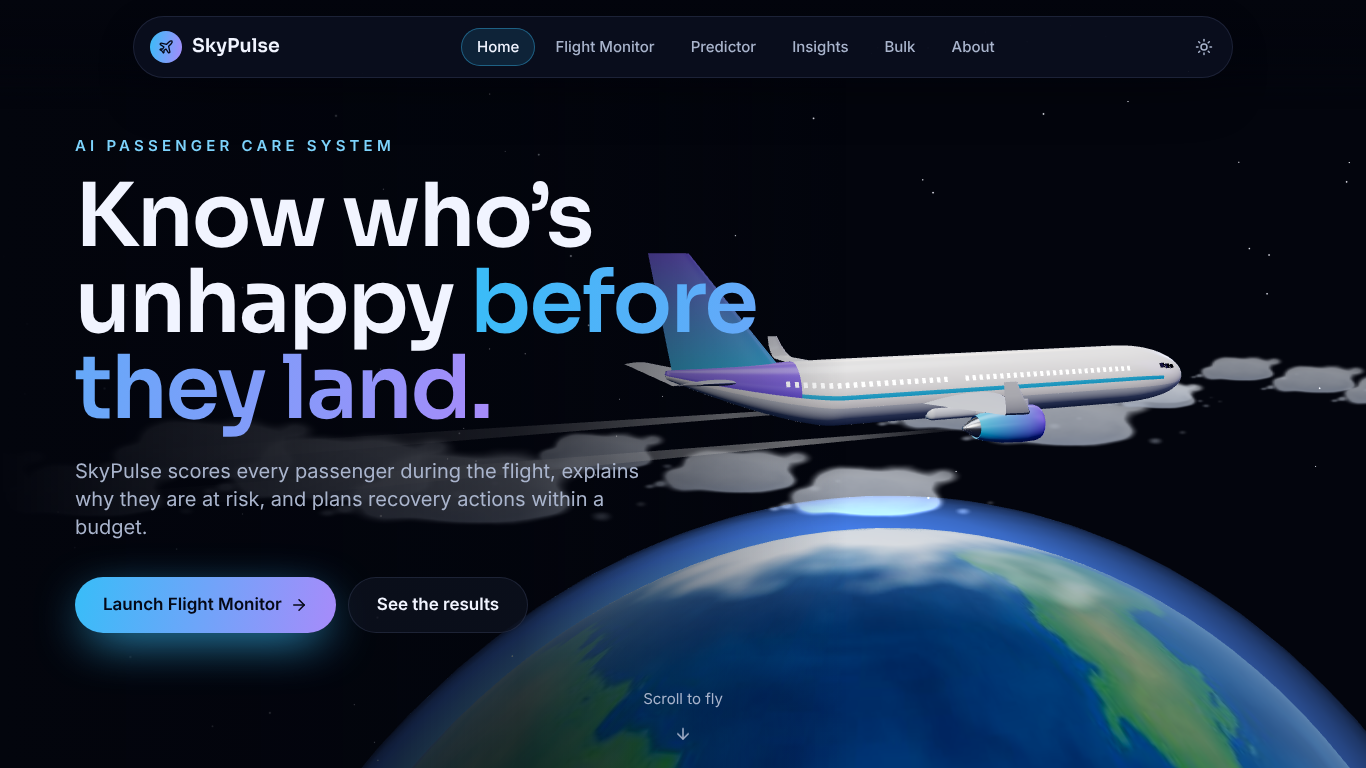
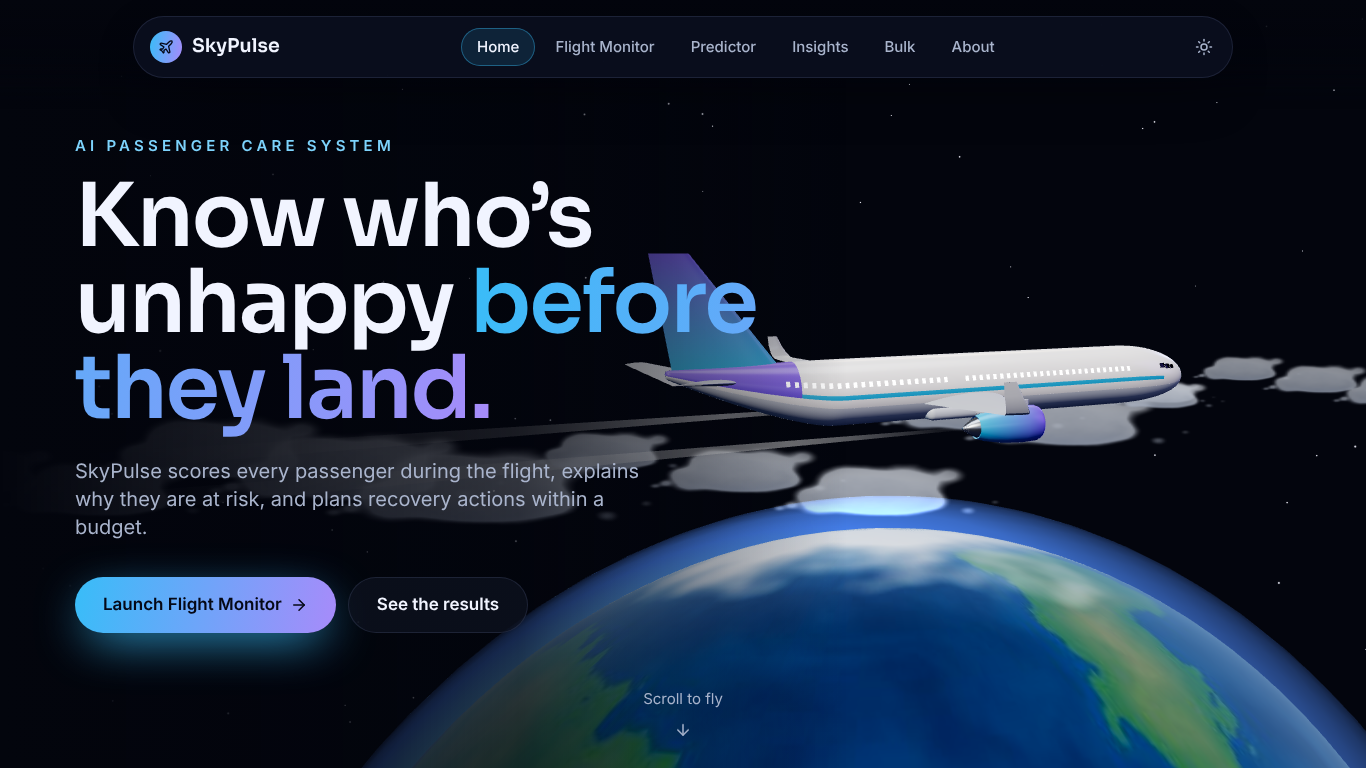
QA report: Fix Pass 4
Claude-Session: https://claude.ai/code/session_011EWWjybTNWrXwmu9X53TYB

diff --git a/QA_REPORT.md b/QA_REPORT.md
@@ -1,4 +1,47 @@
-# SkyPulse — QA Report (Fix Pass 3)
+# SkyPulse — QA Report (Fix Pass 4)
+
+## Fix Pass 4 — Home scroll performance, sharpness and the cabin story
+
+### Root cause of the scroll lag (one trace: Playwright, 1366×768, CPU 4× throttle — `tests/perf_home.py`)
+| Cause found | Fix |
+|---|---|
+| The Home 3D canvas **kept rendering after you scrolled past it** (bloom + depth of field every frame) — the lower/middle page ran at ~1 fps in the trace | Canvas stops (`frameloop="never"`) whenever the pinned section is off screen (IntersectionObserver) or the tab is hidden |
+| **2.33 M triangles per frame**: 140 full-detail Blender seats + cabin walls | Story uses meshoptimizer-simplified seats (12% of triangles) and walls → **~0.35 M triangles**; cabin not drawn at all during the hero (hidden inside the fuselage) |
+| Bloom + depth of field + MSAA composer every frame; bloom compiled on first scroll (hitch) | Post-processing removed from Home; all shaders compiled before the first frame |
+| `setState` from inside the render loop when entering the cabin | Removed: scroll-linked values live in refs read in `useFrame` |
+| Backdrop blur on every card and caption, re-rendered over the live canvas each frame; 500 px blurred cursor glow | Blur kept **only on the navbar**; cards use semi-opaque backgrounds; cursor glow is a plain gradient |
+
+Frames per second (`tests/perf_home.py` / per-stage probe). This container has **no GPU** (SwiftShader software WebGL), so absolute numbers are far below a real laptop; the comparison is like for like:
+| Part of Home | Before | After |
+|---|---|---|
+| Lower page (problem → "Built by"), CPU 4× | **1.0 fps** | **61 fps** |
+| Lower page, wheel-scroll trace, CPU 4× | 21 fps | 16–61 fps (trace includes the hand-off frames) |
+| Pinned 3D story (software GL, fill-rate bound) | 1.0–3.7 fps | 1.0–3.3 fps |
+| Triangles per story frame | 2.33 M (cabin stages) | 0.35 M |
+A real integrated GPU was not available here, so the ~60 fps target in the 3D section could not be measured; with 85% fewer triangles, no post-processing and no blur over the canvas, the per-frame GPU work is a fraction of before.
+
+### Blur while scrolling
+Cause: `PerformanceMonitor` dropped the pixel ratio to 1 when frames dipped during scrolling, and depth of field blurred the cabin. Both removed; DPR is fixed at `min(devicePixelRatio, 1.75)`; no CSS blur on the canvas wrapper. Mid-scroll and at-rest frames render at the same resolution.
+
+### New cabin story (pinned, 430 vh: hero + ~300 vh of cabin stages)
+Damped camera on a Catmull-Rom spline (no flips, old rotation removed); caption on the left (top on phones), cabin centred in the free area via a camera view offset and a projected-corner fit (1366×768, 1920×1080, 390×844). Stages: arrival (fuselage turns see-through) → whole cabin → scan line reveals red/amber seats with a live count → aisle-level focus on one seat with its real top reason and action → green ripple, chip "before → after". Reduced motion: one static frame per stage.
+**Real numbers** (`python -m tools.make_story` → `frontend/src/three/story.json`): 140 real test-set passengers (seed 5), meal-shortage event, SkyPulse `/flight/recover`: **100 at risk → 83** (17 saved, ₹54,800). Focus seat 11D: 99.9% → 49.8%, "Inflight wifi rated 2", Wifi voucher. Seed 5 was chosen as the flight (of 30 seeds × 3 events) where recovery saved the most; with a 2-hour delay recovery saves only 2 of 104, so the caption says "turn 17 of them green" rather than implying all.
+Screenshots: `screenshots/*_home_story_{000,025,050,075,100}.png`.
+
+### Found by QA this pass
+| Problem | Fix |
+|---|---|
+| Page error `Cannot read properties of undefined (reading 'isReady')` when leaving Home during shader warm-up (three's `compileAsync` keeps polling disposed materials) | Own readiness poll that stops on unmount |
+| Console warning `KHR_parallel_shader_compile extension not supported` | Same poll; no `compileAsync` call |
+
+### QA results this pass
+- Backend `pytest`: **19 / 19 passed**.
+- Playwright suite, all 6 combinations: Home, navigation, predictor, insights, bulk, about and offline steps pass. Remaining failures are all environment-specific to this GPU-less container: SwiftShader `GPU stall due to ReadPixels` driver notices (screenshots), and **Flight Monitor clicks timing out** (its unchanged full-detail cabin renders ~1 fps in software). Previous passes ran on a real GPU.
+- Team names verified everywhere (Aadarsh Raj, Pranjal Jaiswal, Gaurav Singh, Ansh Singh), no register numbers.
+
+---
+
+# Fix Pass 3 (previous)
 
 How this was tested:
 - **Backend:** `pytest` — 19 tests (`backend/tests/`), including edge cases and a real restart-persistence test that starts the API twice on the same database.
